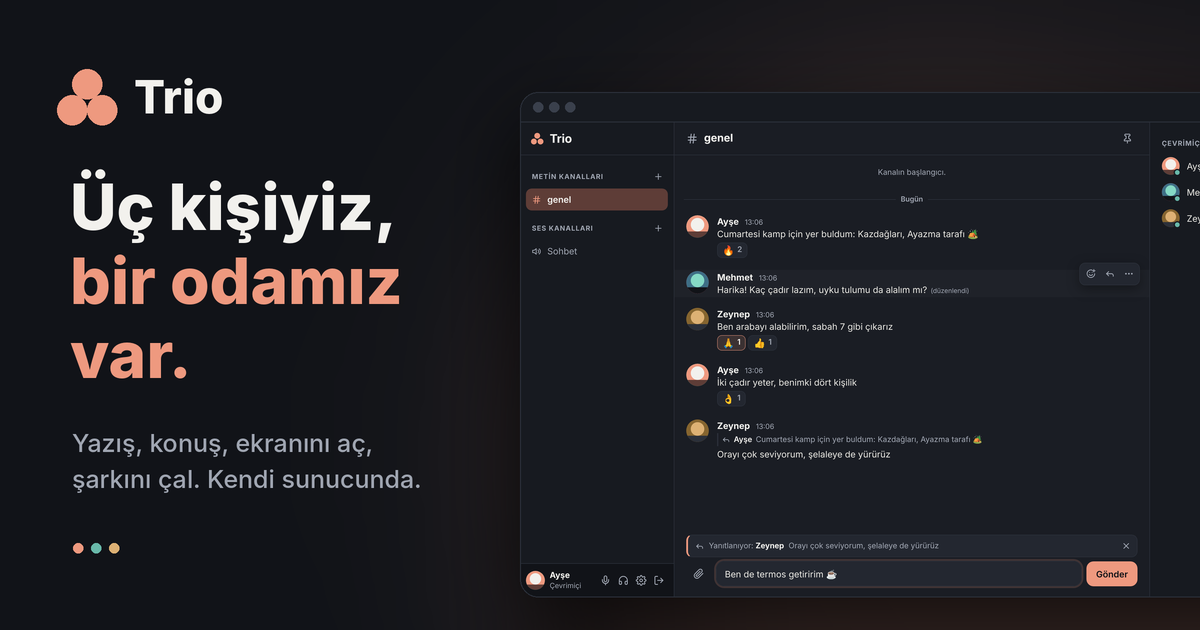
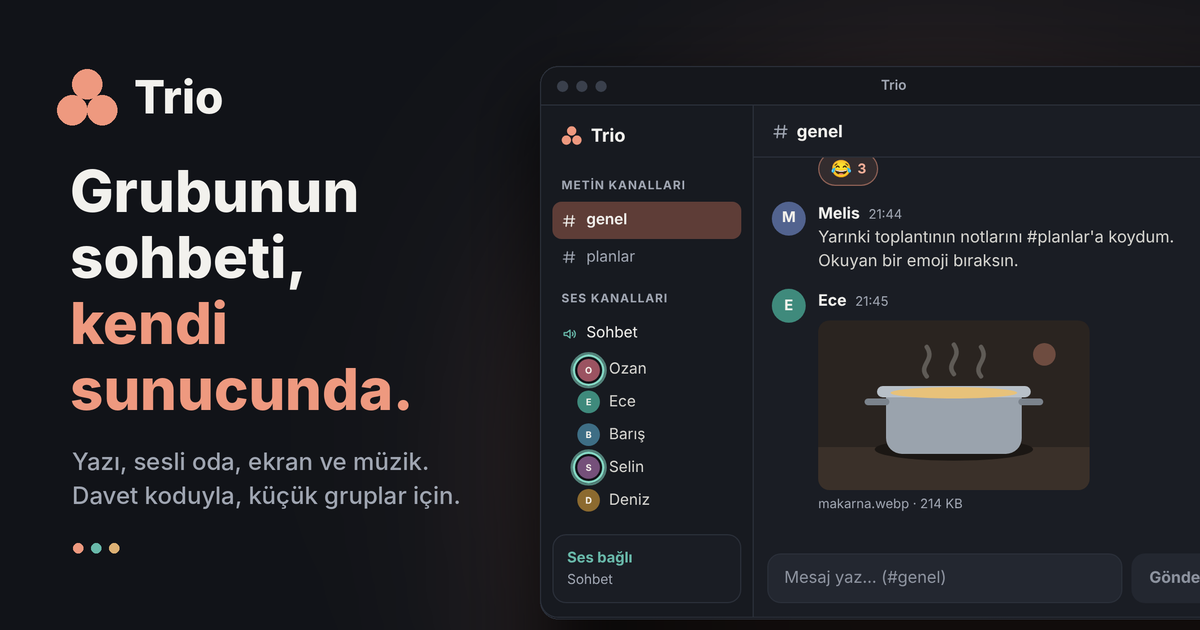
Site: compact second path in the hero, steadier title on phones, the OG image from the group's hero window
Claude-Session: https://claude.ai/code/session_01PLJvUz4eYtddjQx7nfZGWV

diff --git a/e2e/tests/77-site-general.spec.ts b/e2e/tests/77-site-general.spec.ts
@@ -236,17 +236,19 @@ test('screenshots at 390, 768 and 1440, and the set-up section', async ({ browse
     await page.evaluate(() => document.getElementById('sunucu')?.scrollIntoView({ block: 'start', behavior: 'instant' }))
     await page.waitForTimeout(500)
     await page.getByTestId('own-server').screenshot({ path: shot(`v10-site-own-${width}.png`) })
-    if (width === 1440) {
-      // The hero's window in its last picture, the source of the link-preview image (design/tools/build_og.py).
-      await page.evaluate(() => window.scrollTo({ top: 0, behavior: 'instant' }))
-      const hero = page.locator('[data-demo="hero"]')
-      for (let i = 0; i < 30 && (await hero.getAttribute('data-step')) !== (await hero.getAttribute('data-last')); i++)
-        await page.waitForTimeout(500)
-      await hero.getByTestId('demo-pause').click()
-      await page.waitForTimeout(800)
-      await hero.locator('.dw').screenshot({ path: shot('v10-site-hero-window.png') })
-    }
     await v.close()
+    if (width === 1440) {
+      // The hero's window in its last picture, at 2x: the source of the link-preview image (design/tools/build_og.py).
+      const sharp = await openLanding(browser, { userAgent: UA.windows, width, height, deviceScaleFactor: 2 })
+      const hero = sharp.page.locator('[data-demo="hero"]')
+      await expect(hero.locator('.dw')).toBeVisible()
+      for (let i = 0; i < 80 && (await hero.getAttribute('data-step')) !== (await hero.getAttribute('data-last')); i++)
+        await sharp.page.waitForTimeout(500)
+      await hero.getByTestId('demo-pause').click()
+      await sharp.page.waitForTimeout(800)
+      await hero.locator('.dw').screenshot({ path: shot('v10-site-hero-window.png') })
+      await sharp.close()
+    }
   }
   const join = await openLanding(browser, { userAgent: UA.windows, width: 1280, height: 860, path: '/' })
   await expect(join.page.getByTestId('join-about')).toBeVisible()

diff --git a/web/src/indir/DownloadPage.tsx b/web/src/indir/DownloadPage.tsx
@@ -126,8 +126,8 @@ export function DownloadPage() {
               </span>
             </h1>
             <p className="hero-lead hero-in" style={{ ['--d' as string]: '320ms' }}>
-              Yazışmak, sesli odada konuşmak, ekran açmak, birbirinize müzik çalmak için. Trio'yu gruptan biri küçük
-              bir sunucuya kurar, diğerleri davet koduyla girer; mesajlar ve dosyalar o sunucuda kalır.
+              Yazışmak, sesli konuşmak, ekran ve müzik paylaşmak için. Gruptan biri Trio'yu küçük bir sunucuya kurar,
+              diğerleri davet koduyla girer; mesajlar ve dosyalar o sunucuda kalır.
             </p>
 
             <div className="hero-actions hero-in" style={{ ['--d' as string]: '440ms' }}>
@@ -175,7 +175,7 @@ export function DownloadPage() {
                   Kendi sunucunu kur
                   <span aria-hidden="true">→</span>
                 </a>
-                <p className="muted">10–15 kişilik gruplar için; kurulumu bir kişi yapar.</p>
+                <p className="muted hero-own-note">10–15 kişiye kadar gruplar için; kurulumu bir kişi yapar.</p>
               </div>
             </div>
           </div>
@@ -521,8 +521,8 @@ function OwnServer() {
             <li>
               <h3>Kodu ve sınırı yaz</h3>
               <p>
-                <code>TRIO_INVITE_CODE</code> grubuna vereceğin kod, <code>TRIO_MAX_USERS</code> kaç kişiyseniz o.
-                Farklı ağlardakiler birbirini duysun diye ücretsiz Cloudflare TURN anahtarı da öneriliyor.
+                <code>TRIO_INVITE_CODE</code>: grubuna vereceğin kod. <code>TRIO_MAX_USERS</code>: kaç kişiyseniz.
+                Farklı ağlardakiler birbirini duysun diye ücretsiz bir Cloudflare TURN anahtarı da ekle.
               </p>
             </li>
             <li>

diff --git a/web/src/indir/site.css b/web/src/indir/site.css
@@ -290,7 +290,7 @@ p {
 
 .hero-title {
   margin-top: 6px;
-  font-size: clamp(46px, 2.9vw + 27px, 70px);
+  font-size: clamp(40px, 2.9vw + 27px, 70px);
   font-weight: 780;
   line-height: 1.02;
   letter-spacing: -0.045em;
@@ -351,18 +351,24 @@ p {
   text-transform: uppercase;
 }
 
+/* The second reader: a label and a link on one line, the honest size under them. */
 .hero-own {
   display: flex;
-  flex-direction: column;
-  gap: 8px;
-  width: min(100%, 44ch);
-  margin-top: 6px;
-  padding-top: 22px;
+  flex-wrap: wrap;
+  align-items: center;
+  column-gap: 14px;
+  width: min(100%, 46ch);
+  margin-top: 2px;
+  padding-top: 16px;
   border-top: 1px solid var(--border);
 }
 
 .hero-own .hero-path {
-  margin-bottom: 2px;
+  margin: 0;
+}
+
+.hero-own-note {
+  flex-basis: 100%;
 }
 
 .hero-own-link {

diff --git a/e2e/lib/landing.ts b/e2e/lib/landing.ts
@@ -22,6 +22,7 @@ export async function openLanding(
     isMobile?: boolean
     reducedMotion?: 'reduce' | 'no-preference'
     path?: string
+    deviceScaleFactor?: number
   },
 ): Promise<Landing> {
   const context = await browser.newContext({
@@ -29,6 +30,7 @@ export async function openLanding(
     userAgent: options.userAgent,
     viewport: { width: options.width ?? 1440, height: options.height ?? 900 },
     isMobile: options.isMobile,
+    deviceScaleFactor: options.deviceScaleFactor,
     hasTouch: options.isMobile,
     reducedMotion: options.reducedMotion ?? 'no-preference',
     locale: 'tr-TR',

diff --git a/web/src/indir/demo/HeroDemo.tsx b/web/src/indir/demo/HeroDemo.tsx
@@ -133,9 +133,6 @@ export function HeroDemo() {
             <p className="dw-channel">
               <Icon name="hash" size={14} /> planlar
             </p>
-            <p className="dw-channel">
-              <Icon name="hash" size={14} /> oyun
-            </p>
             <p className="dw-section">Ses kanalları</p>
             <p className="dw-channel dw-voice">
               <Icon name="speaker" size={14} /> Sohbet

diff --git a/web/src/indir/demos.css b/web/src/indir/demos.css
@@ -223,7 +223,7 @@
   padding: 0 0 0 18px;
   display: flex;
   flex-direction: column;
-  gap: 6px;
+  gap: 2px;
 }
 
 .dw-join {

diff --git a/design/tools/build_og.py b/design/tools/build_og.py
@@ -2,9 +2,11 @@
 
 Re-runnable: `python3 design/tools/build_og.py` from the repository root.
 Needs Pillow and a bold sans font with Turkish letters (Inter, else DejaVu
-Sans). The picture on the right is a REAL screenshot of the client, rendered
-by the e2e suite (e2e/screenshots/11-reactions-reply.png: three friends planning
-a weekend in #genel, with reactions and a reply), framed as a window; the left is the mark and the line.
+Sans). The picture on the right is a REAL screenshot rendered by the e2e suite
+(e2e/screenshots/v10-site-hero-window.png, from 77-site-general: the /indir
+hero's main screen in its last picture, at 2x: a group's evening in #genel,
+five people in the voice room, a reaction and a photo); the left is the mark
+and the line.
 """
 
 from __future__ import annotations
@@ -14,7 +16,7 @@ from pathlib import Path
 from PIL import Image, ImageDraw, ImageFilter, ImageFont
 
 ROOT = Path(__file__).resolve().parents[2]
-SHOT = ROOT / "e2e" / "screenshots" / "11-reactions-reply.png"
+SHOT = ROOT / "e2e" / "screenshots" / "v10-site-hero-window.png"
 OUT = ROOT / "web" / "public" / "og" / "trio-og.png"
 
 W, H = 1200, 630
@@ -63,21 +65,13 @@ def main() -> None:
     glow = glow.filter(ImageFilter.GaussianBlur(120 * S))
     canvas.paste(Image.new("RGB", canvas.size, CORAL), (0, 0), glow)
 
-    # The window: the real screenshot, its right edge running off the card.
+    # The window: the real screenshot (it carries its own title bar), its right edge running off the card.
     shot = Image.open(SHOT).convert("RGB")
-    win_w = 760 * S
+    win_w = 700 * S
     scale = win_w / shot.width
-    shot = shot.resize((win_w, round(shot.height * scale)), Image.Resampling.LANCZOS)
-    bar = 30 * S
-    window = Image.new("RGB", (win_w, shot.height + bar), SIDE)
-    window.paste(shot, (0, bar))
-    draw = ImageDraw.Draw(window)
-    for i in range(3):
-        cx = (18 + i * 16) * S
-        draw.ellipse((cx - 5 * S, bar // 2 - 5 * S, cx + 5 * S, bar // 2 + 5 * S), fill=(0x3A, 0x40, 0x4C))
-    draw.line((0, bar - 1, win_w, bar - 1), fill=BORDER, width=S)
+    window = shot.resize((win_w, round(shot.height * scale)), Image.Resampling.LANCZOS)
     window = rounded(window, 18 * S)
-    x, y = 520 * S, 92 * S
+    x, y = 540 * S, 66 * S
     shadow = Image.new("L", canvas.size, 0)
     ImageDraw.Draw(shadow).rounded_rectangle(
         (x, y + 30 * S, x + win_w, y + window.height + 30 * S), 18 * S, fill=200
@@ -96,14 +90,15 @@ def main() -> None:
         d.ellipse((cx - r, cy - r, cx + r, cy + r), fill=CORAL)
     d.text((mx + 62 * S, my - 6 * S), "Trio", font=font(FONTS_BOLD, 46 * S), fill=TEXT, anchor="lt")
 
-    title = font(FONTS_BOLD, 64 * S)
-    d.text((70 * S, 230 * S), "Üç kişiyiz,", font=title, fill=TEXT, anchor="ls")
-    d.text((70 * S, 304 * S), "bir odamız", font=title, fill=CORAL, anchor="ls")
-    d.text((70 * S, 378 * S), "var.", font=title, fill=CORAL, anchor="ls")
+    title = font(FONTS_BOLD, 58 * S)
+    d.text((70 * S, 212 * S), "Grubunun", font=title, fill=TEXT, anchor="ls")
+    d.text((70 * S, 278 * S), "sohbeti,", font=title, fill=TEXT, anchor="ls")
+    d.text((70 * S, 344 * S), "kendi", font=title, fill=CORAL, anchor="ls")
+    d.text((70 * S, 410 * S), "sunucunda.", font=title, fill=CORAL, anchor="ls")
 
-    small = font(FONTS_REGULAR, 25 * S)
-    d.text((72 * S, 452 * S), "Yazış, konuş, ekranını aç,", font=small, fill=MUTED, anchor="ls")
-    d.text((72 * S, 488 * S), "şarkını çal. Kendi sunucunda.", font=small, fill=MUTED, anchor="ls")
+    small = font(FONTS_REGULAR, 24 * S)
+    d.text((72 * S, 470 * S), "Yazı, sesli oda, ekran ve müzik.", font=small, fill=MUTED, anchor="ls")
+    d.text((72 * S, 504 * S), "Davet koduyla, küçük gruplar için.", font=small, fill=MUTED, anchor="ls")
     for i, colour in enumerate((CORAL, TEAL, AMBER)):
         cx = (78 + i * 18) * S
         d.ellipse((cx - 5 * S, 548 * S - 5 * S, cx + 5 * S, 548 * S + 5 * S), fill=colour)
